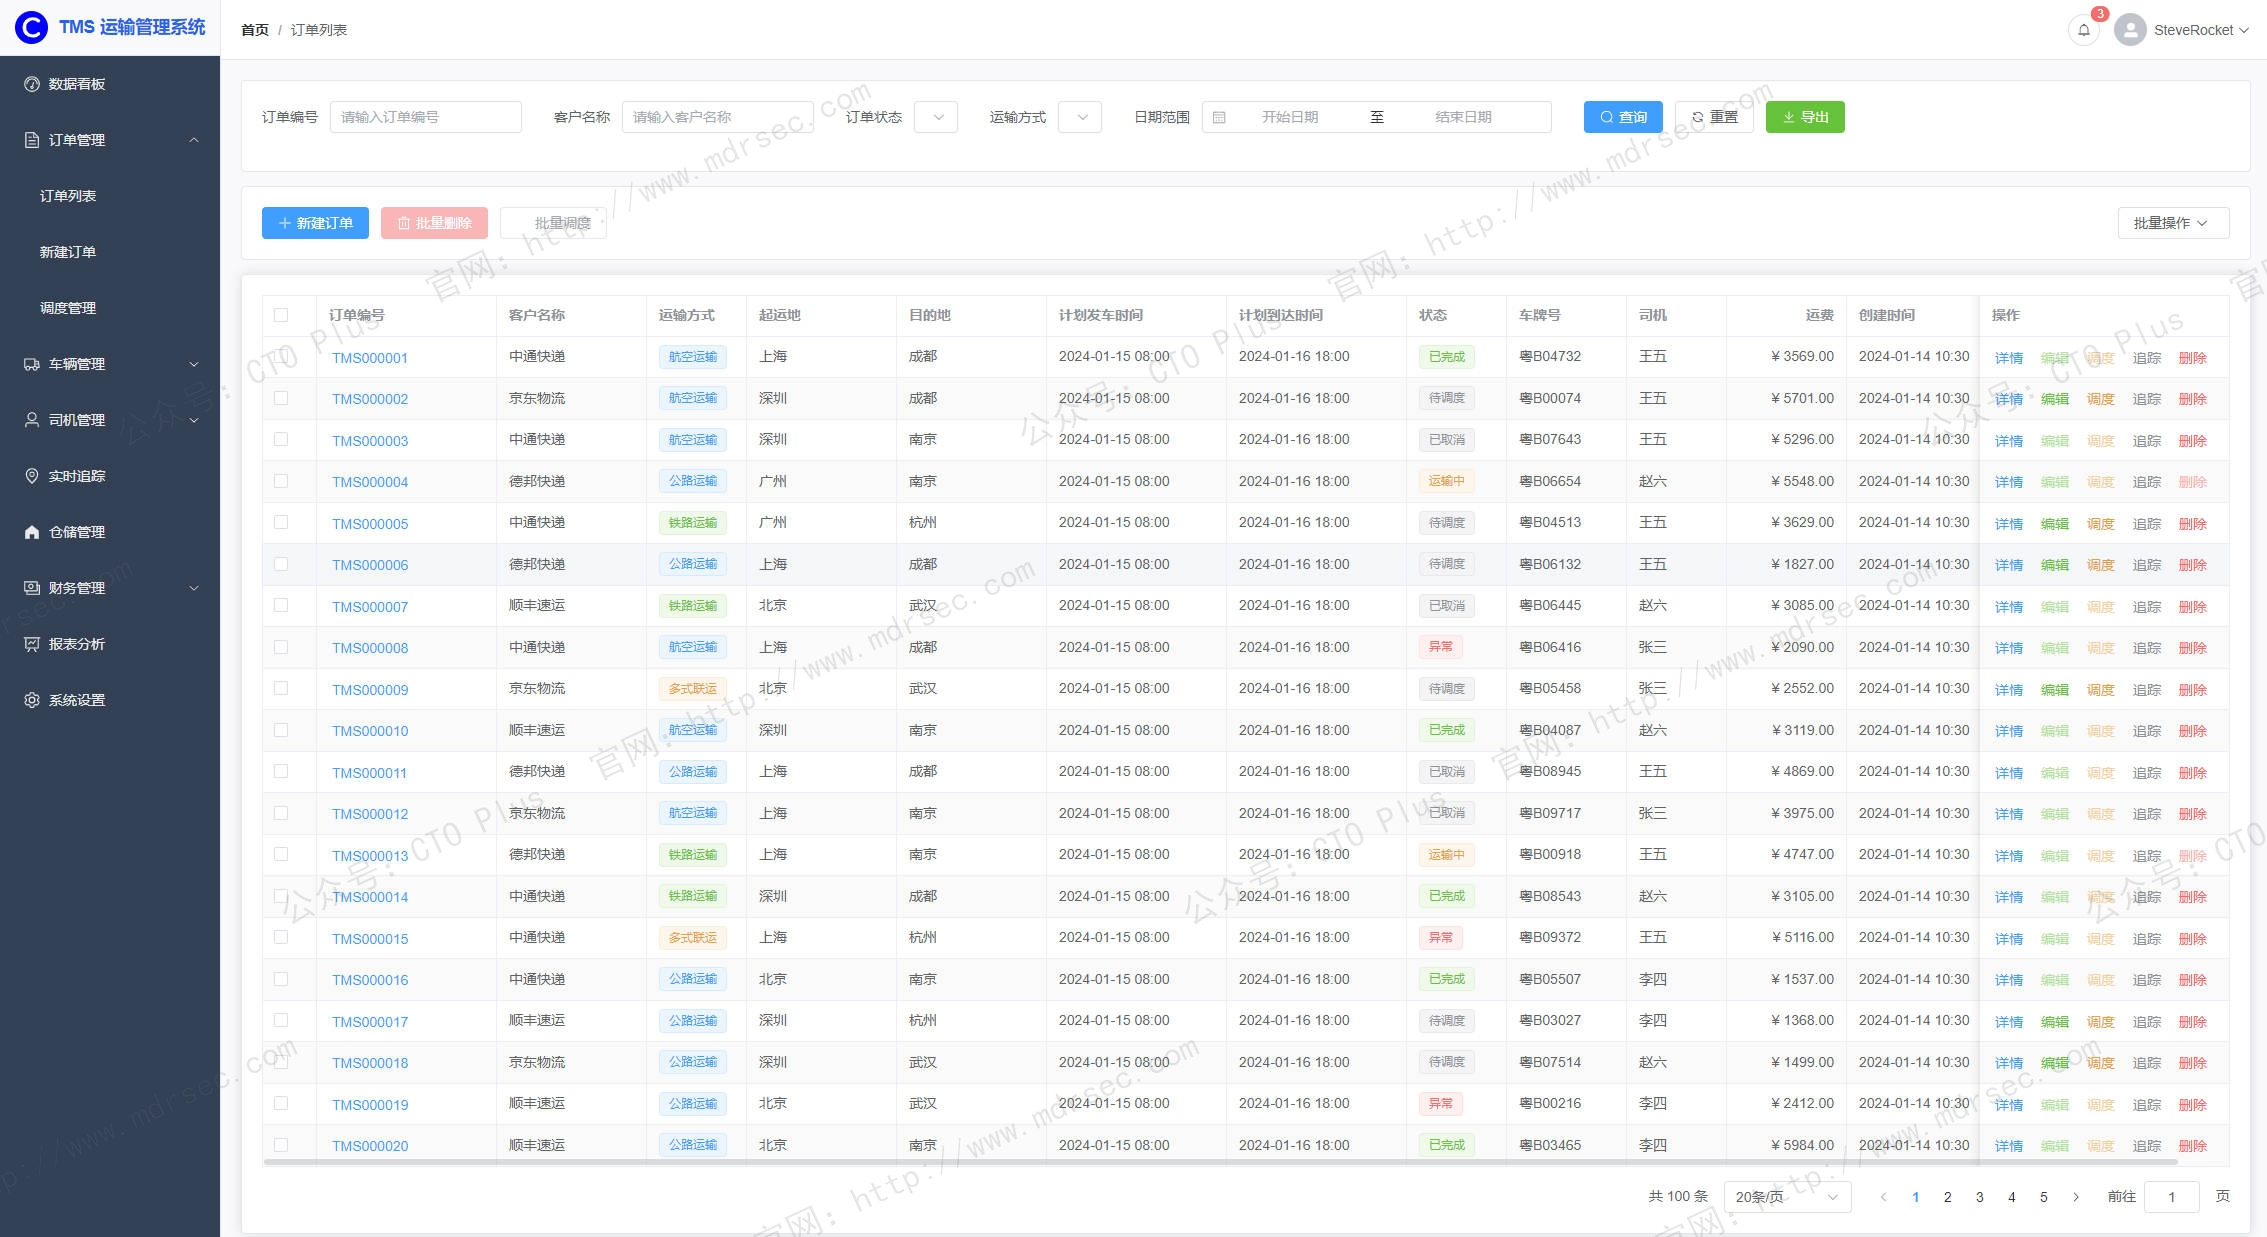
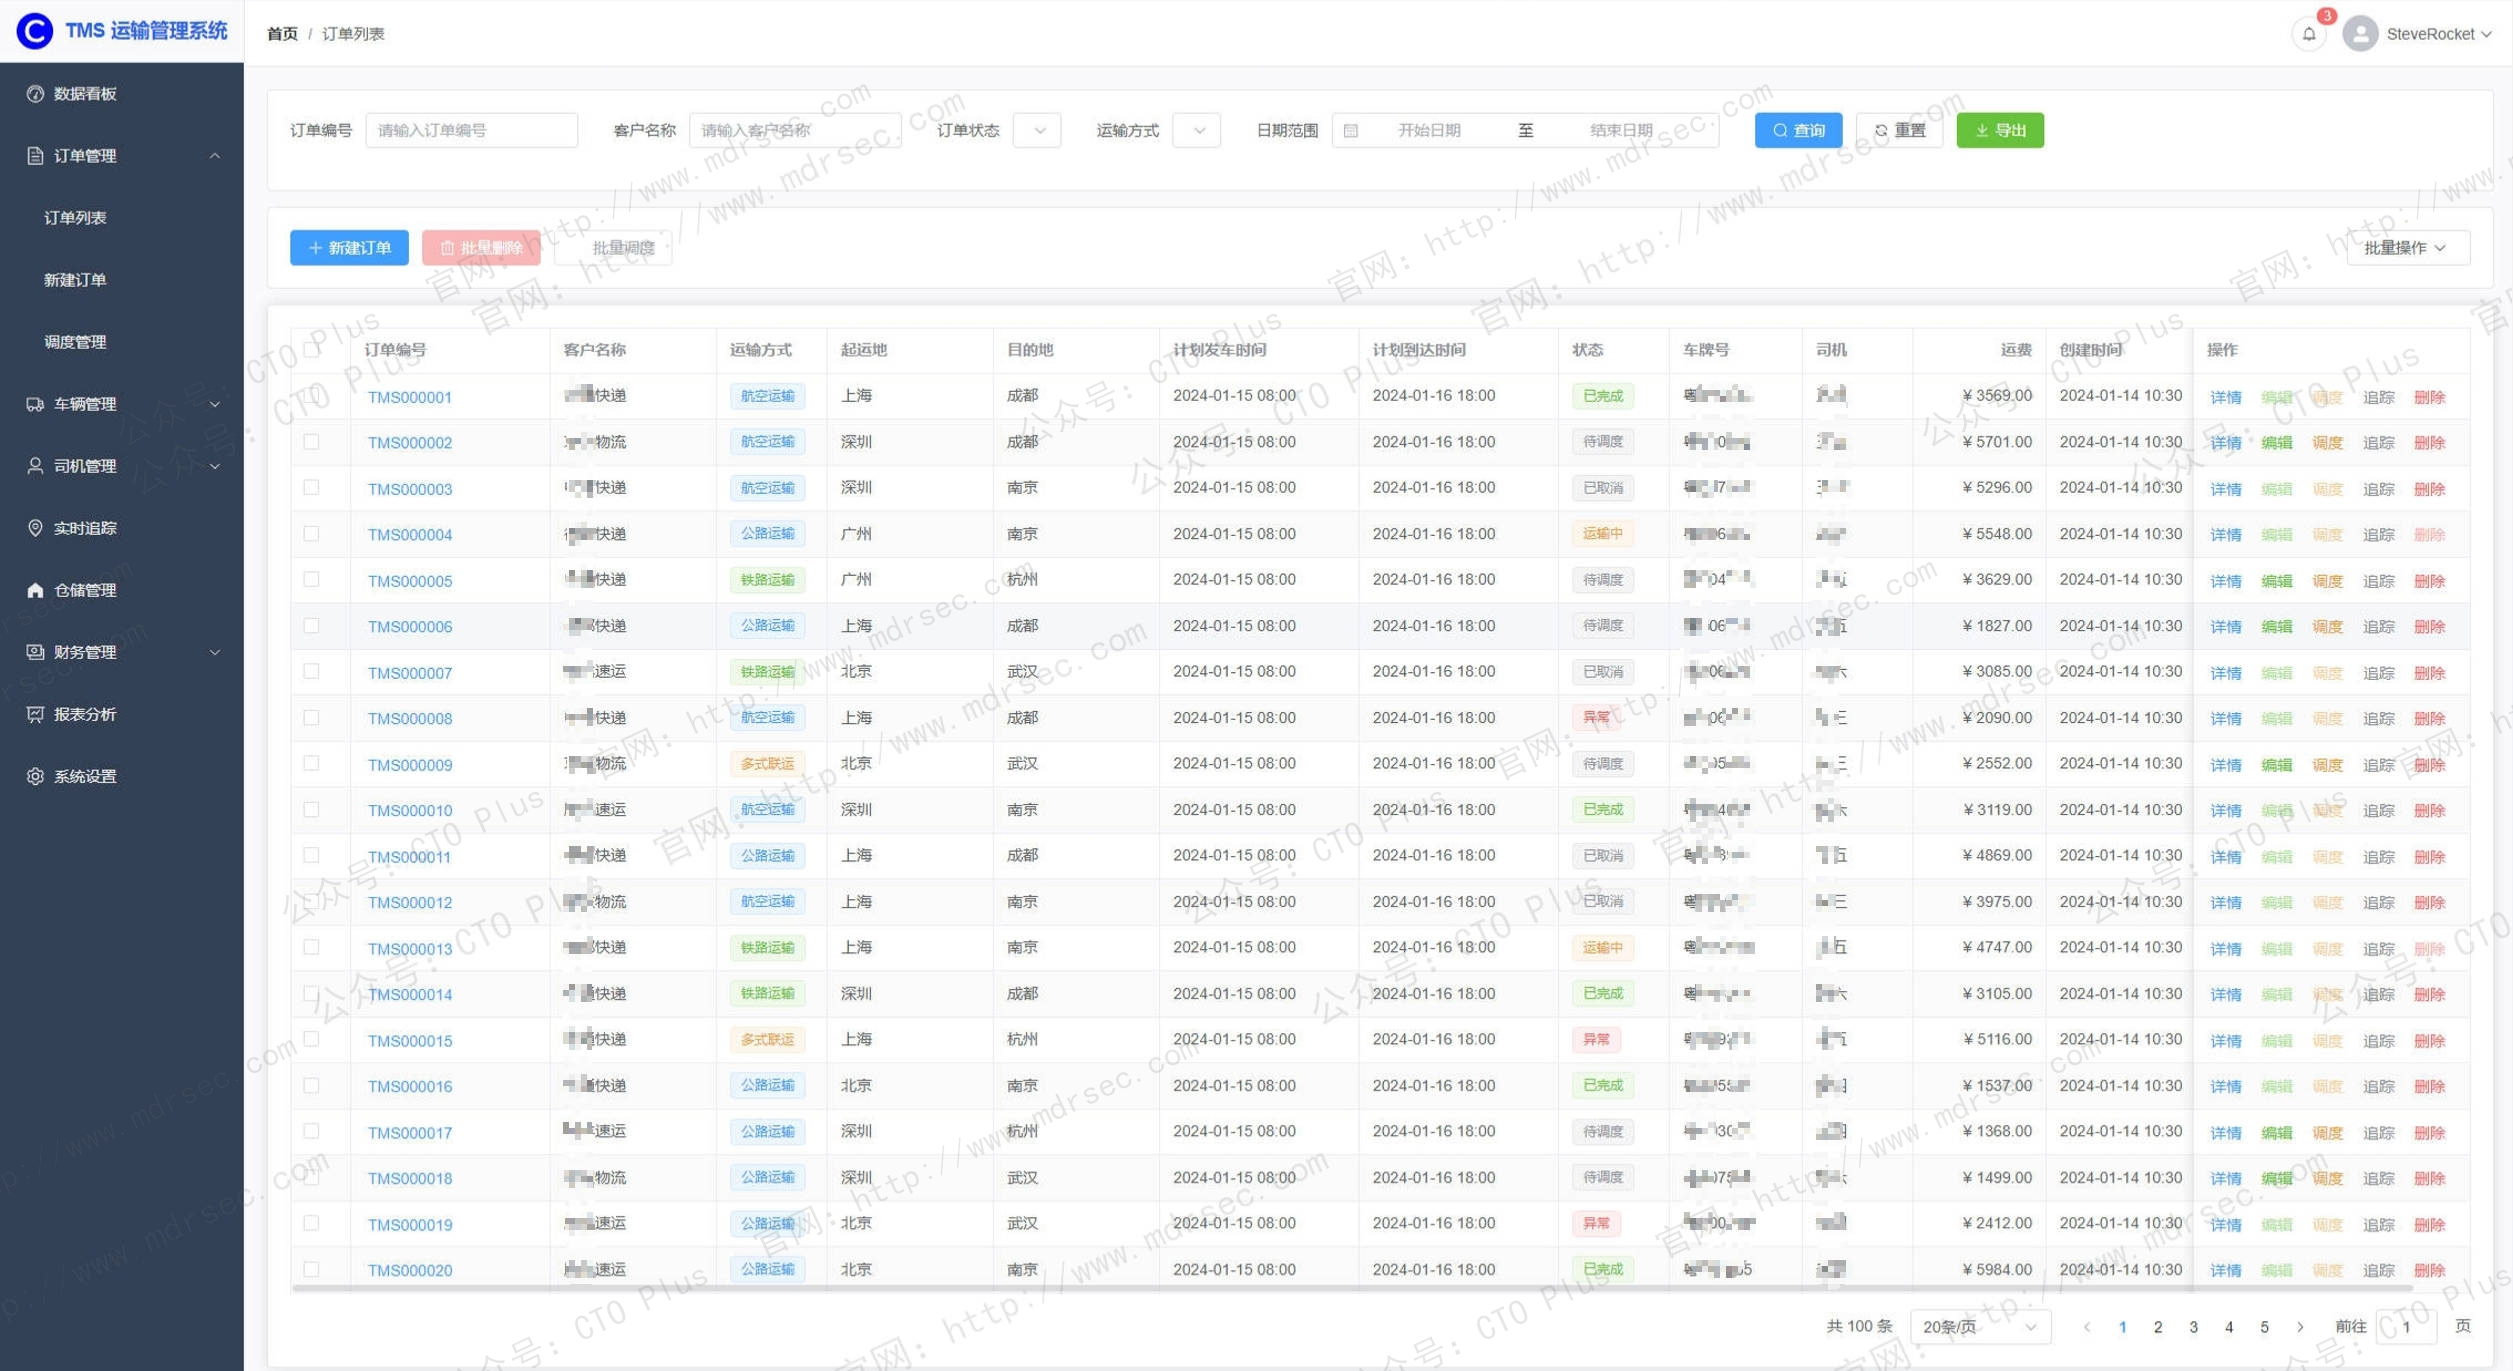
添加功能特性说明

diff --git a/README.md b/README.md
@@ -34,6 +34,11 @@
 
 ![首页](index.jpg)
 ![订单列表](order.jpg)
+![](司机信息-入库管理.jpg)
+![](库存管理.jpg)
+![](油耗管理.jpg)
+![](车辆档案.jpg)
+![](违章管理-事故管理.jpg)
 
 ## 产品清单
 